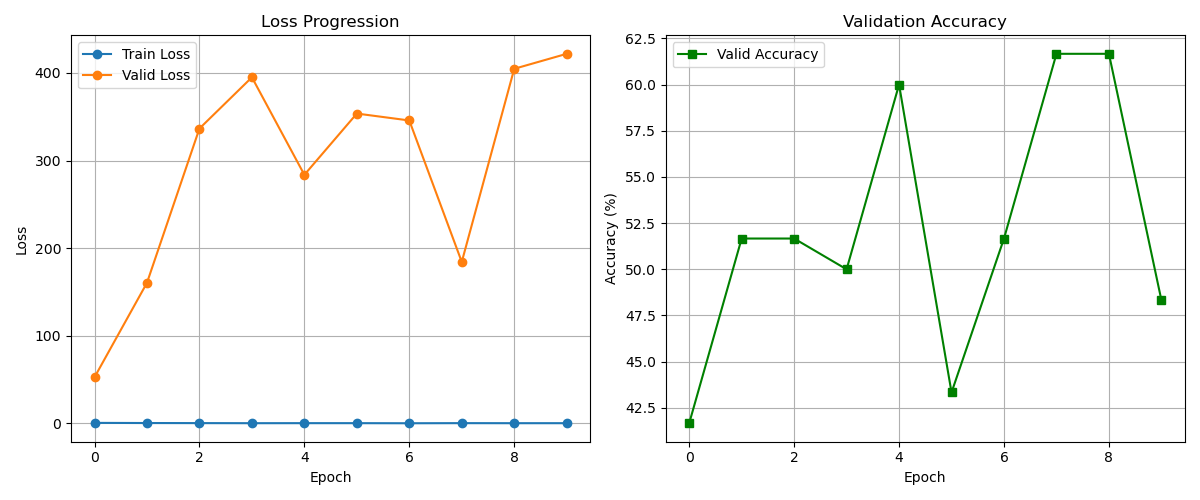
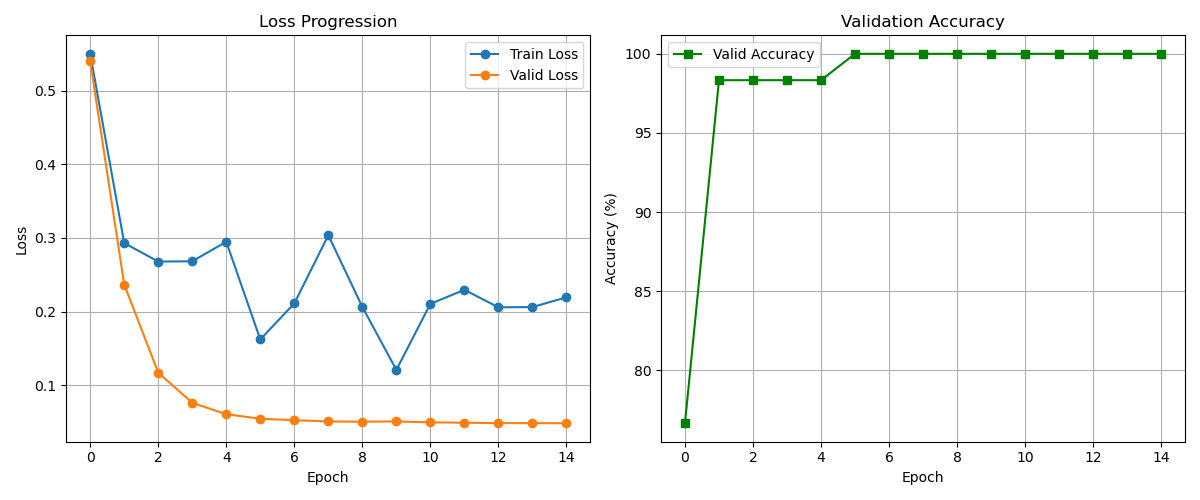
assignment 2 submission

diff --git a/assignment2/scrapper-2.py b/assignment2/scrapper-2.py
@@ -1,0 +1,40 @@
+import os
+import requests
+
+def download_images(image_urls, save_dir="./Lab-Vision-Systems/data/assignment2-robot"):
+    # 1. Create the target directory if it doesn't exist
+    if not os.path.exists(save_dir):
+        os.makedirs(save_dir)
+        print(f"Created directory: {save_dir}")
+    
+    # 2. Iterate through URLs and download
+    for i, url in enumerate(image_urls):
+        try:
+            print(f"Downloading {i+1}/{len(image_urls)}: {url}")
+            response = requests.get(url, stream=True, timeout=10)
+            response.raise_for_status()  # Check for HTTP errors
+            
+            # Define file path (using index to ensure unique names)
+            filename = os.path.join(save_dir, f"robot_image_{i+1}.jpg")
+            
+            # Save the image content
+            with open(filename, 'wb') as file:
+                for chunk in response.iter_content(chunk_size=8192):
+                    file.write(chunk)
+                    
+        except Exception as e:
+            print(f"Failed to download {url}: {e}")
+
+# --- Usage ---
+# Replace this list with your actual provided links
+robot_links = [
+    "https://thumbs.dreamstime.com/b/woman-robot-cyborg-android-machine-human-also-part-living-female-surreal-weird-technology-57343661.jpg",
+    "https://foreignpolicy.com/wp-content/uploads/2025/01/humanoid-robot-GettyImages-2158291771.jpg",
+    "https://www.economist.com/cdn-cgi/image/width=1424,quality=80,format=auto/content-assets/images/20251115_TWSTP505.jpg",
+    "https://cdn1-m.alittihad.ae/store/archive/image/2024/4/21/f8befdb1-ed90-4907-aae2-bd8fead6f5f7.png",
+    "https://mmo.aiircdn.com/265/605c40646792b.jpg",
+    "https://www.reuters.com/resizer/v2/https%3A%2F%2Farchive-images.prod.global.a201836.reutersmedia.net%2F2017%2F11%2F01%2FLYNXMPEDA02A9.JPG?auth=55ebee8c86fe746a296c5560ffab26982545472da2dc987a720f1ed5c0374962&width=1080&quality=80"
+]
+
+download_images(robot_links)
+print("Download process complete.")